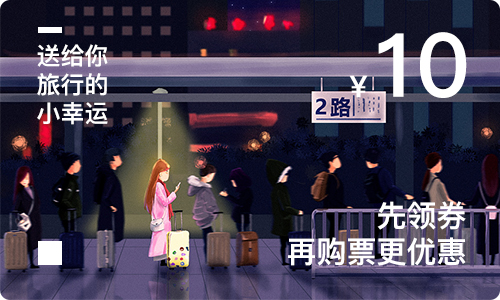
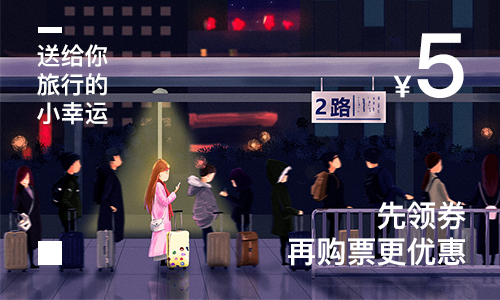
修改优惠券数额为5

diff --git a/html/dist/ticket.html b/html/dist/ticket.html
@@ -15,5 +15,5 @@
 		<div id="app">
 			<router-view></router-view>
 		</div>
-	<script type="text/javascript" src="bundle-ticket.js?5b6faf24ffa3a1e61bf2"></script></body>
+	<script type="text/javascript" src="bundle-ticket.js?228b21895bf0d7e1174d"></script></body>
 </html>

diff --git a/html/components/TicketBody.vue b/html/components/TicketBody.vue
@@ -58,7 +58,6 @@
 
 <script type="text/babel">
 import Utils from "../Utils/utils";
-// import DatePicker from 'vue-datepicker'
 import { Indicator,Toast } from 'mint-ui';
 import "whatwg-fetch";
 const _ = require("underscore");

diff --git a/html/dist/bundle-ticket.js b/html/dist/bundle-ticket.js
@@ -31122,7 +31122,6 @@
 
 	function _interopRequireDefault(obj) { return obj && obj.__esModule ? obj : { default: obj }; }
 
-	// import DatePicker from 'vue-datepicker'
 	var _ = __webpack_require__(111); //
 	//
 	//
